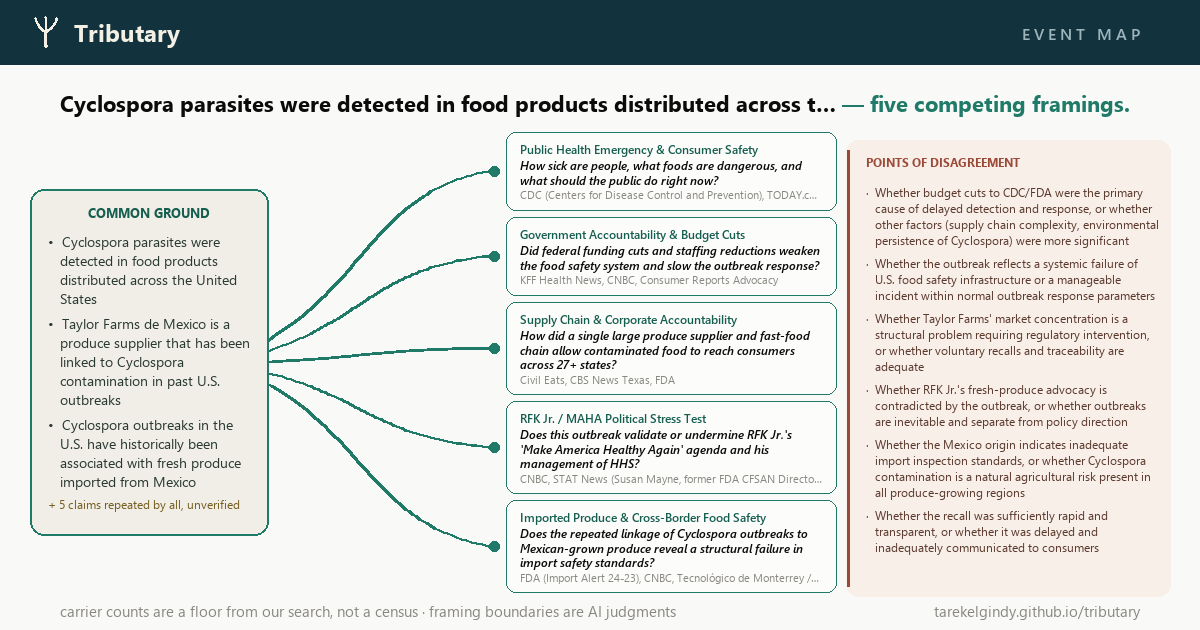
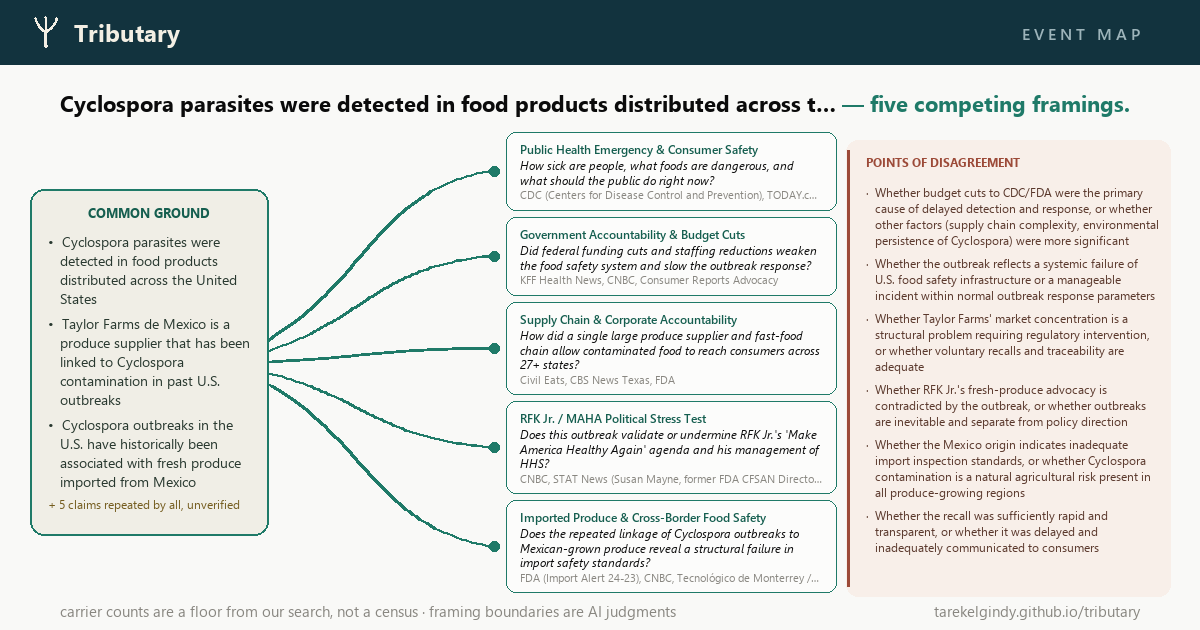
Questions in plain italic (the original formatting), not bold italic

diff --git a/gallery/cards/8e48743e23ca.html b/gallery/cards/8e48743e23ca.html
@@ -85,44 +85,44 @@
 <circle cx="578" cy="104" r="5" fill="#1f7a68"/>
 <rect x="588" y="34" width="472" height="140" rx="10" fill="#fcfcfb" stroke="#1f7a68" stroke-width="1"/>
 <text x="600" y="58" font-size="15" font-weight="700" fill="#155e4f">Public Health Emergency &amp; Consumer Safety</text>
-<text x="600" y="79" font-size="15.5" font-weight="650" font-style="italic" fill="#0b0b0b">How sick are people, what foods are</text>
-<text x="600" y="100" font-size="15.5" font-weight="650" font-style="italic" fill="#0b0b0b">dangerous, and what should the public do</text>
-<text x="600" y="121" font-size="15.5" font-weight="650" font-style="italic" fill="#0b0b0b">right now?</text>
+<text x="600" y="79" font-size="15.5" font-style="italic" fill="#0b0b0b">How sick are people, what foods are</text>
+<text x="600" y="100" font-size="15.5" font-style="italic" fill="#0b0b0b">dangerous, and what should the public do</text>
+<text x="600" y="121" font-size="15.5" font-style="italic" fill="#0b0b0b">right now?</text>
 <text x="600" y="142" font-size="13" fill="#898781">CDC (Centers for Disease Control and Prevention),</text>
 <text x="600" y="159" font-size="13" fill="#898781">TODAY.com, CNN Health</text>
 <path id="epch1" d="M 268 382 C 368 334, 460 263, 576 244" fill="none" stroke="#1f7a68" stroke-width="3"/>
 <circle cx="578" cy="244" r="5" fill="#1f7a68"/>
 <rect x="588" y="182" width="472" height="123" rx="10" fill="#fcfcfb" stroke="#1f7a68" stroke-width="1"/>
 <text x="600" y="206" font-size="15" font-weight="700" fill="#155e4f">Government Accountability &amp; Budget Cuts</text>
-<text x="600" y="227" font-size="15.5" font-weight="650" font-style="italic" fill="#0b0b0b">Did federal funding cuts and staffing</text>
-<text x="600" y="248" font-size="15.5" font-weight="650" font-style="italic" fill="#0b0b0b">reductions weaken the food safety system and</text>
-<text x="600" y="269" font-size="15.5" font-weight="650" font-style="italic" fill="#0b0b0b">slow the outbreak response?</text>
+<text x="600" y="227" font-size="15.5" font-style="italic" fill="#0b0b0b">Did federal funding cuts and staffing</text>
+<text x="600" y="248" font-size="15.5" font-style="italic" fill="#0b0b0b">reductions weaken the food safety system and</text>
+<text x="600" y="269" font-size="15.5" font-style="italic" fill="#0b0b0b">slow the outbreak response?</text>
 <text x="600" y="290" font-size="13" fill="#898781">KFF Health News, CNBC, Consumer Reports Advocacy</text>
 <path id="epch2" d="M 268 394 C 368 387, 460 377, 576 374" fill="none" stroke="#1f7a68" stroke-width="3"/>
 <circle cx="578" cy="374" r="5" fill="#1f7a68"/>
 <rect x="588" y="313" width="472" height="123" rx="10" fill="#fcfcfb" stroke="#1f7a68" stroke-width="1"/>
 <text x="600" y="337" font-size="15" font-weight="700" fill="#155e4f">Supply Chain &amp; Corporate Accountability</text>
-<text x="600" y="358" font-size="15.5" font-weight="650" font-style="italic" fill="#0b0b0b">How did a single large produce supplier and</text>
-<text x="600" y="379" font-size="15.5" font-weight="650" font-style="italic" fill="#0b0b0b">fast-food chain allow contaminated food to</text>
-<text x="600" y="400" font-size="15.5" font-weight="650" font-style="italic" fill="#0b0b0b">reach consumers across 27+ states?</text>
+<text x="600" y="358" font-size="15.5" font-style="italic" fill="#0b0b0b">How did a single large produce supplier and</text>
+<text x="600" y="379" font-size="15.5" font-style="italic" fill="#0b0b0b">fast-food chain allow contaminated food to</text>
+<text x="600" y="400" font-size="15.5" font-style="italic" fill="#0b0b0b">reach consumers across 27+ states?</text>
 <text x="600" y="421" font-size="13" fill="#898781">Civil Eats, CBS News Texas, FDA</text>
 <path id="epch3" d="M 268 404 C 368 443, 460 499, 576 514" fill="none" stroke="#1f7a68" stroke-width="3"/>
 <circle cx="578" cy="514" r="5" fill="#1f7a68"/>
 <rect x="588" y="444" width="472" height="140" rx="10" fill="#fcfcfb" stroke="#1f7a68" stroke-width="1"/>
 <text x="600" y="468" font-size="15" font-weight="700" fill="#155e4f">RFK Jr. / MAHA Political Stress Test</text>
-<text x="600" y="489" font-size="15.5" font-weight="650" font-style="italic" fill="#0b0b0b">Does this outbreak validate or undermine RFK</text>
-<text x="600" y="510" font-size="15.5" font-weight="650" font-style="italic" fill="#0b0b0b">Jr.'s 'Make America Healthy Again' agenda</text>
-<text x="600" y="531" font-size="15.5" font-weight="650" font-style="italic" fill="#0b0b0b">and his management of HHS?</text>
+<text x="600" y="489" font-size="15.5" font-style="italic" fill="#0b0b0b">Does this outbreak validate or undermine RFK</text>
+<text x="600" y="510" font-size="15.5" font-style="italic" fill="#0b0b0b">Jr.'s 'Make America Healthy Again' agenda</text>
+<text x="600" y="531" font-size="15.5" font-style="italic" fill="#0b0b0b">and his management of HHS?</text>
 <text x="600" y="552" font-size="13" fill="#898781">CNBC, STAT News (Susan Mayne, former FDA CFSAN</text>
 <text x="600" y="569" font-size="13" fill="#898781">Director), The Hill</text>
 <path id="epch4" d="M 268 416 C 368 505, 460 637, 576 672" fill="none" stroke="#1f7a68" stroke-width="3"/>
 <circle cx="578" cy="672" r="5" fill="#1f7a68"/>
 <rect x="588" y="592" width="472" height="161" rx="10" fill="#fcfcfb" stroke="#1f7a68" stroke-width="1"/>
 <text x="600" y="616" font-size="15" font-weight="700" fill="#155e4f">Imported Produce &amp; Cross-Border Food Safety</text>
-<text x="600" y="637" font-size="15.5" font-weight="650" font-style="italic" fill="#0b0b0b">Does the repeated linkage of Cyclospora</text>
-<text x="600" y="658" font-size="15.5" font-weight="650" font-style="italic" fill="#0b0b0b">outbreaks to Mexican-grown produce reveal a</text>
-<text x="600" y="679" font-size="15.5" font-weight="650" font-style="italic" fill="#0b0b0b">structural failure in import safety</text>
-<text x="600" y="700" font-size="15.5" font-weight="650" font-style="italic" fill="#0b0b0b">standards?</text>
+<text x="600" y="637" font-size="15.5" font-style="italic" fill="#0b0b0b">Does the repeated linkage of Cyclospora</text>
+<text x="600" y="658" font-size="15.5" font-style="italic" fill="#0b0b0b">outbreaks to Mexican-grown produce reveal a</text>
+<text x="600" y="679" font-size="15.5" font-style="italic" fill="#0b0b0b">structural failure in import safety</text>
+<text x="600" y="700" font-size="15.5" font-style="italic" fill="#0b0b0b">standards?</text>
 <text x="600" y="721" font-size="13" fill="#898781">FDA (Import Alert 24-23), CNBC, Tecnológico de</text>
 <text x="600" y="738" font-size="13" fill="#898781">Monterrey / TecScience</text>
 </svg>

diff --git a/gallery/cards/004920783e29.html b/gallery/cards/004920783e29.html
@@ -90,17 +90,17 @@
 <circle cx="578" cy="96" r="5" fill="#1f7a68"/>
 <rect x="588" y="34" width="472" height="123" rx="10" fill="#fcfcfb" stroke="#1f7a68" stroke-width="1"/>
 <text x="600" y="58" font-size="15" font-weight="700" fill="#155e4f">Artistic Free Speech / Censorship</text>
-<text x="600" y="79" font-size="15.5" font-weight="650" font-style="italic" fill="#0b0b0b">Was Macklemore's removal an act of</text>
-<text x="600" y="100" font-size="15.5" font-weight="650" font-style="italic" fill="#0b0b0b">censorship that chills artistic and</text>
-<text x="600" y="121" font-size="15.5" font-weight="650" font-style="italic" fill="#0b0b0b">political expression?</text>
+<text x="600" y="79" font-size="15.5" font-style="italic" fill="#0b0b0b">Was Macklemore's removal an act of</text>
+<text x="600" y="100" font-size="15.5" font-style="italic" fill="#0b0b0b">censorship that chills artistic and</text>
+<text x="600" y="121" font-size="15.5" font-style="italic" fill="#0b0b0b">political expression?</text>
 <text x="600" y="142" font-size="13" fill="#898781">The Nation, Finneas (Instagram), Rolling Stone</text>
 <path id="epch1" d="M 268 376 C 368 327, 460 255, 576 235" fill="none" stroke="#1f7a68" stroke-width="3"/>
 <circle cx="578" cy="235" r="5" fill="#1f7a68"/>
 <rect x="588" y="165" width="472" height="140" rx="10" fill="#fcfcfb" stroke="#1f7a68" stroke-width="1"/>
 <text x="600" y="189" font-size="15" font-weight="700" fill="#155e4f">Antisemitism / Hate Speech Accountability</text>
-<text x="600" y="210" font-size="15.5" font-weight="650" font-style="italic" fill="#0b0b0b">Did Macklemore's speech and history</text>
-<text x="600" y="231" font-size="15.5" font-weight="650" font-style="italic" fill="#0b0b0b">constitute antisemitic hate speech that</text>
-<text x="600" y="252" font-size="15.5" font-weight="650" font-style="italic" fill="#0b0b0b">venues were right to refuse to platform?</text>
+<text x="600" y="210" font-size="15.5" font-style="italic" fill="#0b0b0b">Did Macklemore's speech and history</text>
+<text x="600" y="231" font-size="15.5" font-style="italic" fill="#0b0b0b">constitute antisemitic hate speech that</text>
+<text x="600" y="252" font-size="15.5" font-style="italic" fill="#0b0b0b">venues were right to refuse to platform?</text>
 <text x="600" y="273" font-size="13" fill="#898781">Robert Kraft / Gillette Stadium, Anti-Defamation</text>
 <text x="600" y="290" font-size="13" fill="#898781">League (Jonathan Greenblatt), Fox News / OutKick</text>
 <path id="epch2" d="M 268 387 C 368 386, 460 385, 576 385" fill="none" stroke="#1f7a68" stroke-width="3"/>
@@ -108,26 +108,26 @@
 <rect x="588" y="313" width="472" height="144" rx="10" fill="#fcfcfb" stroke="#1f7a68" stroke-width="1"/>
 <text x="600" y="337" font-size="15" font-weight="700" fill="#155e4f">Billionaire Power / Elite Capture of Public</text>
 <text x="600" y="358" font-size="15" font-weight="700" fill="#155e4f">Space</text>
-<text x="600" y="379" font-size="15.5" font-weight="650" font-style="italic" fill="#0b0b0b">Does this episode reveal how ultra-wealthy</text>
-<text x="600" y="400" font-size="15.5" font-weight="650" font-style="italic" fill="#0b0b0b">individuals can unilaterally control what</text>
-<text x="600" y="421" font-size="15.5" font-weight="650" font-style="italic" fill="#0b0b0b">speech is permitted in quasi-public venues?</text>
+<text x="600" y="379" font-size="15.5" font-style="italic" fill="#0b0b0b">Does this episode reveal how ultra-wealthy</text>
+<text x="600" y="400" font-size="15.5" font-style="italic" fill="#0b0b0b">individuals can unilaterally control what</text>
+<text x="600" y="421" font-size="15.5" font-style="italic" fill="#0b0b0b">speech is permitted in quasi-public venues?</text>
 <text x="600" y="442" font-size="13" fill="#898781">Boston Globe, Rolling Stone, WBUR News</text>
 <path id="epch3" d="M 268 398 C 368 443, 460 509, 576 526" fill="none" stroke="#1f7a68" stroke-width="3"/>
 <circle cx="578" cy="526" r="5" fill="#1f7a68"/>
 <rect x="588" y="465" width="472" height="123" rx="10" fill="#fcfcfb" stroke="#1f7a68" stroke-width="1"/>
 <text x="600" y="489" font-size="15" font-weight="700" fill="#155e4f">Artist Solidarity / Moral Witness</text>
-<text x="600" y="510" font-size="15.5" font-weight="650" font-style="italic" fill="#0b0b0b">Did the artists who quit the tour in</text>
-<text x="600" y="531" font-size="15.5" font-weight="650" font-style="italic" fill="#0b0b0b">solidarity demonstrate a model of collective</text>
-<text x="600" y="552" font-size="15.5" font-weight="650" font-style="italic" fill="#0b0b0b">moral courage in the music industry?</text>
+<text x="600" y="510" font-size="15.5" font-style="italic" fill="#0b0b0b">Did the artists who quit the tour in</text>
+<text x="600" y="531" font-size="15.5" font-style="italic" fill="#0b0b0b">solidarity demonstrate a model of collective</text>
+<text x="600" y="552" font-size="15.5" font-style="italic" fill="#0b0b0b">moral courage in the music industry?</text>
 <text x="600" y="573" font-size="13" fill="#898781">Al Jazeera, NPR, Lukas Graham (Instagram)</text>
 <path id="epch4" d="M 268 409 C 368 500, 460 632, 576 668" fill="none" stroke="#1f7a68" stroke-width="3"/>
 <circle cx="578" cy="668" r="5" fill="#1f7a68"/>
 <rect x="588" y="596" width="472" height="144" rx="10" fill="#fcfcfb" stroke="#1f7a68" stroke-width="1"/>
 <text x="600" y="620" font-size="15" font-weight="700" fill="#155e4f">Ed Sheeran's Apolitical Stance / Celebrity</text>
 <text x="600" y="641" font-size="15" font-weight="700" fill="#155e4f">Neutrality Debate</text>
-<text x="600" y="662" font-size="15.5" font-weight="650" font-style="italic" fill="#0b0b0b">Is Ed Sheeran's refusal to take political</text>
-<text x="600" y="683" font-size="15.5" font-weight="650" font-style="italic" fill="#0b0b0b">sides a defensible position for a global</text>
-<text x="600" y="704" font-size="15.5" font-weight="650" font-style="italic" fill="#0b0b0b">superstar, or a form of complicity?</text>
+<text x="600" y="662" font-size="15.5" font-style="italic" fill="#0b0b0b">Is Ed Sheeran's refusal to take political</text>
+<text x="600" y="683" font-size="15.5" font-style="italic" fill="#0b0b0b">sides a defensible position for a global</text>
+<text x="600" y="704" font-size="15.5" font-style="italic" fill="#0b0b0b">superstar, or a form of complicity?</text>
 <text x="600" y="725" font-size="13" fill="#898781">Good Morning America / ABC News, Slate, Billboard</text>
 </svg>
     

diff --git a/fingerprint_viewer.html b/fingerprint_viewer.html
@@ -1109,7 +1109,7 @@ function eventDeltaSvg(analysis) {
       ty += 21;
     });
     qW[i].forEach(ln => {
-      p.push(`<text x="${QX0}" y="${ty.toFixed(0)}" font-size="15.5" font-weight="650" font-style="italic" fill="#0b0b0b">${escapeHtml(ln)}</text>`);
+      p.push(`<text x="${QX0}" y="${ty.toFixed(0)}" font-size="15.5" font-style="italic" fill="#0b0b0b">${escapeHtml(ln)}</text>`);
       ty += 21;
     });
     cW[i].forEach(ln => {

diff --git a/cards.py b/cards.py
@@ -627,6 +627,7 @@ def _font(size, weight="regular"):
     names = {"bold": ["segoeuib.ttf", "arialbd.ttf", "dejavu/DejaVuSans-Bold.ttf", "DejaVuSans-Bold.ttf"],
              "semibold": ["seguisb.ttf", "segoeuib.ttf", "arialbd.ttf", "dejavu/DejaVuSans-Bold.ttf", "DejaVuSans-Bold.ttf"],
              "bolditalic": ["seguisbi.ttf", "segoeuiz.ttf", "arialbi.ttf", "dejavu/DejaVuSans-BoldOblique.ttf", "DejaVuSans-BoldOblique.ttf"],
+             "italic": ["segoeuii.ttf", "ariali.ttf", "dejavu/DejaVuSans-Oblique.ttf", "DejaVuSans-Oblique.ttf"],
              "regular": ["segoeui.ttf", "arial.ttf", "dejavu/DejaVuSans.ttf", "DejaVuSans.ttf"]}[weight]
     for n in names:
         for base in (Path("C:/Windows/Fonts"), Path("/usr/share/fonts/truetype")):
@@ -1405,7 +1406,7 @@ def render_event_png(cd, out_path):
         BQX0, BQX1 = 506, 836                  # question boxes
         MX = 494                                # mouths
         for fq_s, fb_s, lh in ((13.5, 13, 17), (12.5, 12, 15.5), (12, 11.5, 14.5)):
-            f_q = _font(fq_s, "bolditalic")
+            f_q = _font(fq_s, "italic")
             f_bn = _font(fb_s, "semibold")
             f_cr = _font(max(fb_s - 1.5, 10.5))
             boxes = []
@@ -1584,7 +1585,7 @@ def svg_event_delta(cd):
             ty += 21
         for ln in qlines:
             parts.append(f'<text x="{QX0}" y="{ty:.0f}" font-size="15.5" '
-                         f'font-weight="650" font-style="italic" fill="#0b0b0b">{esc(ln)}</text>')
+                         f'font-style="italic" fill="#0b0b0b">{esc(ln)}</text>')
             ty += 21
         for ln in c_wrapped[i]:
             parts.append(f'<text x="{QX0}" y="{ty:.0f}" font-size="13" '
